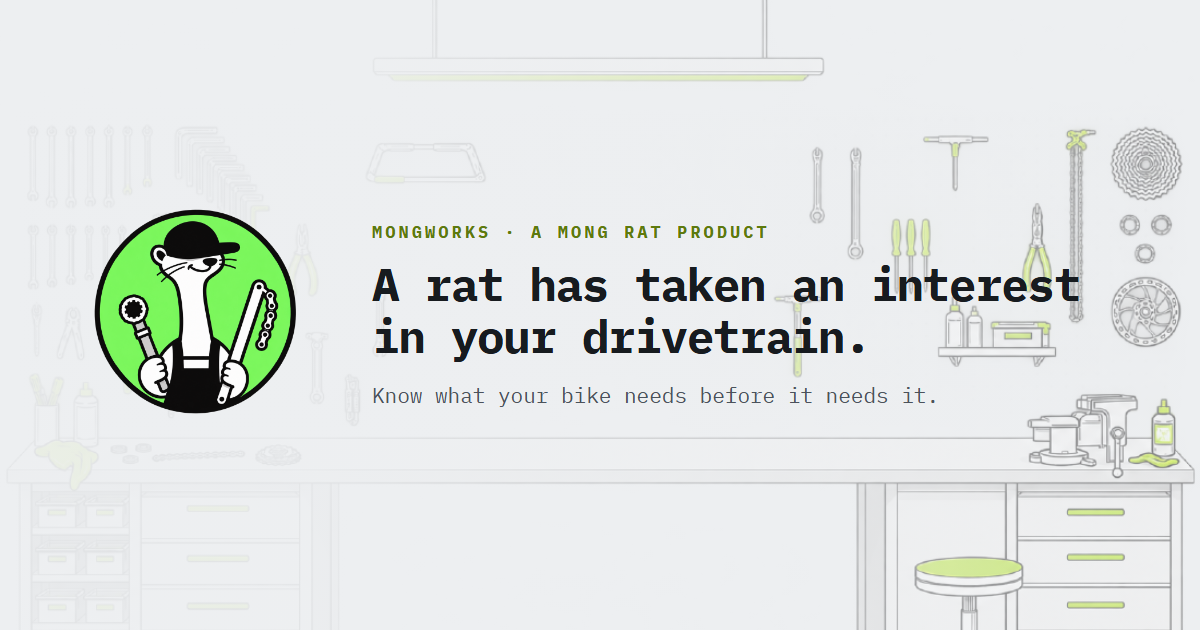
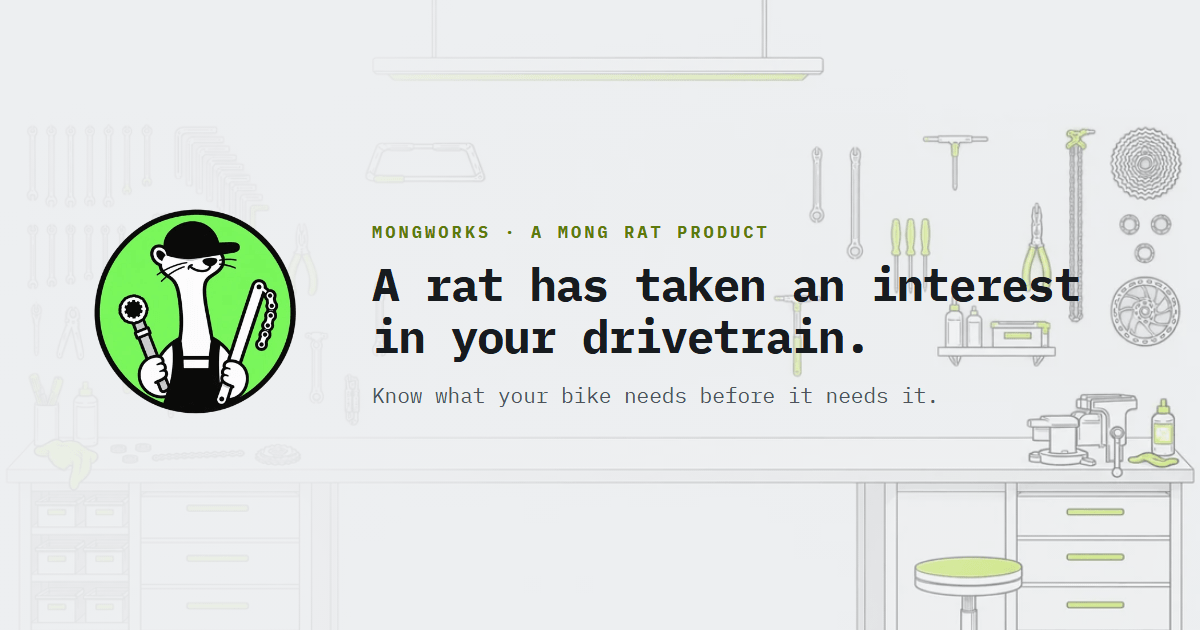
Convert the page artwork to WebP
Page art drops from 1.2 MB to 299 KB — a four-fold cut with no loss of
resolution, verified at 2x device density where tread, spokes, cable routing
and the rat's whiskers all stay crisp.

The settings are not uniform, and the intuition runs backwards for half these
files. Lossy WebP is spectacular on the workshop, which is a large smooth
gradient and therefore exactly what PNG is worst at: 425 KB to 37 KB. But the
bikes are line art over large transparent areas, which is what PNG is best at,
and there lossy is worse than near-lossless — 179 KB against 80 KB on the same
image. Each file got measured rather than assumed.

Two settings needed more than a format swap. The bikes resize with Mitchell
rather than sharp's default Lanczos: Lanczos rings on hard line-art edges, and
every ring is another intermediate tone the lossless pass has to preserve, so
the kernel alone moved a bike from 150 KB to 94 KB. Dropping near-lossless
preprocessing to 20 took it to 80 KB, which is where the curve flattens and
softening would start.

The OG card stays PNG deliberately. Nothing a visitor loads ever fetches it, so
the saving would be invisible, while WebP og:image renders unreliably across
social platforms — a bad trade in both directions. It is re-encoded with a
palette instead, 336 KB to 122 KB.

WebP is served without a PNG fallback. Support is around 97% and every browser
that can run this page's layout can decode it; carrying both would double the
repo for the remainder.

diff --git a/mongworks/index.html b/mongworks/index.html
@@ -21,7 +21,7 @@
 <meta property="og:image:height" content="630">
 <meta name="twitter:card" content="summary_large_image">
 
-<link rel="icon" href="assets/rat.png">
+<link rel="icon" href="assets/rat.webp">
 <link rel="preconnect" href="https://fonts.gstatic.com" crossorigin>
 <link rel="stylesheet" href="https://fonts.googleapis.com/css2?family=IBM+Plex+Mono:wght@400;600;700&display=swap">
 
@@ -237,8 +237,8 @@
 <main>
   <header class="hero">
     <div class="hero-art">
-      <img class="scene" src="assets/workshop.png" alt="" width="1100" height="733">
-      <img class="roundel" src="assets/rat.png" alt="The MongWorks mechanic rat" width="420" height="420">
+      <img class="scene" src="assets/workshop.webp" alt="" width="1100" height="733">
+      <img class="roundel" src="assets/rat.webp" alt="The MongWorks mechanic rat" width="420" height="420">
       <!-- Decorative and non-interactive, so it is hidden from assistive tech: the hero
            text already says what MongWorks does, and a loop announced frame by frame is
            noise. The track sits at translateX(0) until the script moves it, so with no
@@ -248,10 +248,10 @@
           <!-- The last frame clones the first, so the loop always slides forwards and
                then jumps back invisibly. -->
           <div class="reel-track" id="reel-track">
-            <div class="reel-frame"><img src="assets/bike-gravel.png" alt="" width="1100" height="685"></div>
-            <div class="reel-frame"><img src="assets/bike-road.png" alt="" width="1100" height="687"></div>
-            <div class="reel-frame"><img src="assets/bike-mountain-full-suspension.png" alt="" width="1100" height="690"></div>
-            <div class="reel-frame"><img src="assets/bike-gravel.png" alt="" width="1100" height="685"></div>
+            <div class="reel-frame"><img src="assets/bike-gravel.webp" alt="" width="1100" height="685"></div>
+            <div class="reel-frame"><img src="assets/bike-road.webp" alt="" width="1100" height="687"></div>
+            <div class="reel-frame"><img src="assets/bike-mountain-full-suspension.webp" alt="" width="1100" height="690"></div>
+            <div class="reel-frame"><img src="assets/bike-gravel.webp" alt="" width="1100" height="685"></div>
           </div>
         </div>
         <p class="reel-label">Whatever you ride</p>

diff --git a/mongworks/thanks/index.html b/mongworks/thanks/index.html
@@ -8,7 +8,7 @@
 <!-- Nothing here should be indexed or shared: it is only reachable after a signup. -->
 <meta name="robots" content="noindex">
 
-<link rel="icon" href="../assets/rat.png">
+<link rel="icon" href="../assets/rat.webp">
 <link rel="preconnect" href="https://fonts.gstatic.com" crossorigin>
 <link rel="stylesheet" href="https://fonts.googleapis.com/css2?family=IBM+Plex+Mono:wght@400;600;700&display=swap">
 
@@ -62,7 +62,7 @@
 <body>
 
 <main>
-  <img class="roundel" src="../assets/rat.png" alt="The MongWorks mechanic rat" width="420" height="420">
+  <img class="roundel" src="../assets/rat.webp" alt="The MongWorks mechanic rat" width="420" height="420">
   <h1>You're in.</h1>
   <p class="lead">The rat has your address, and he's filed it somewhere safe.</p>
   <p class="after">Nothing from us until there's something to download.</p>
